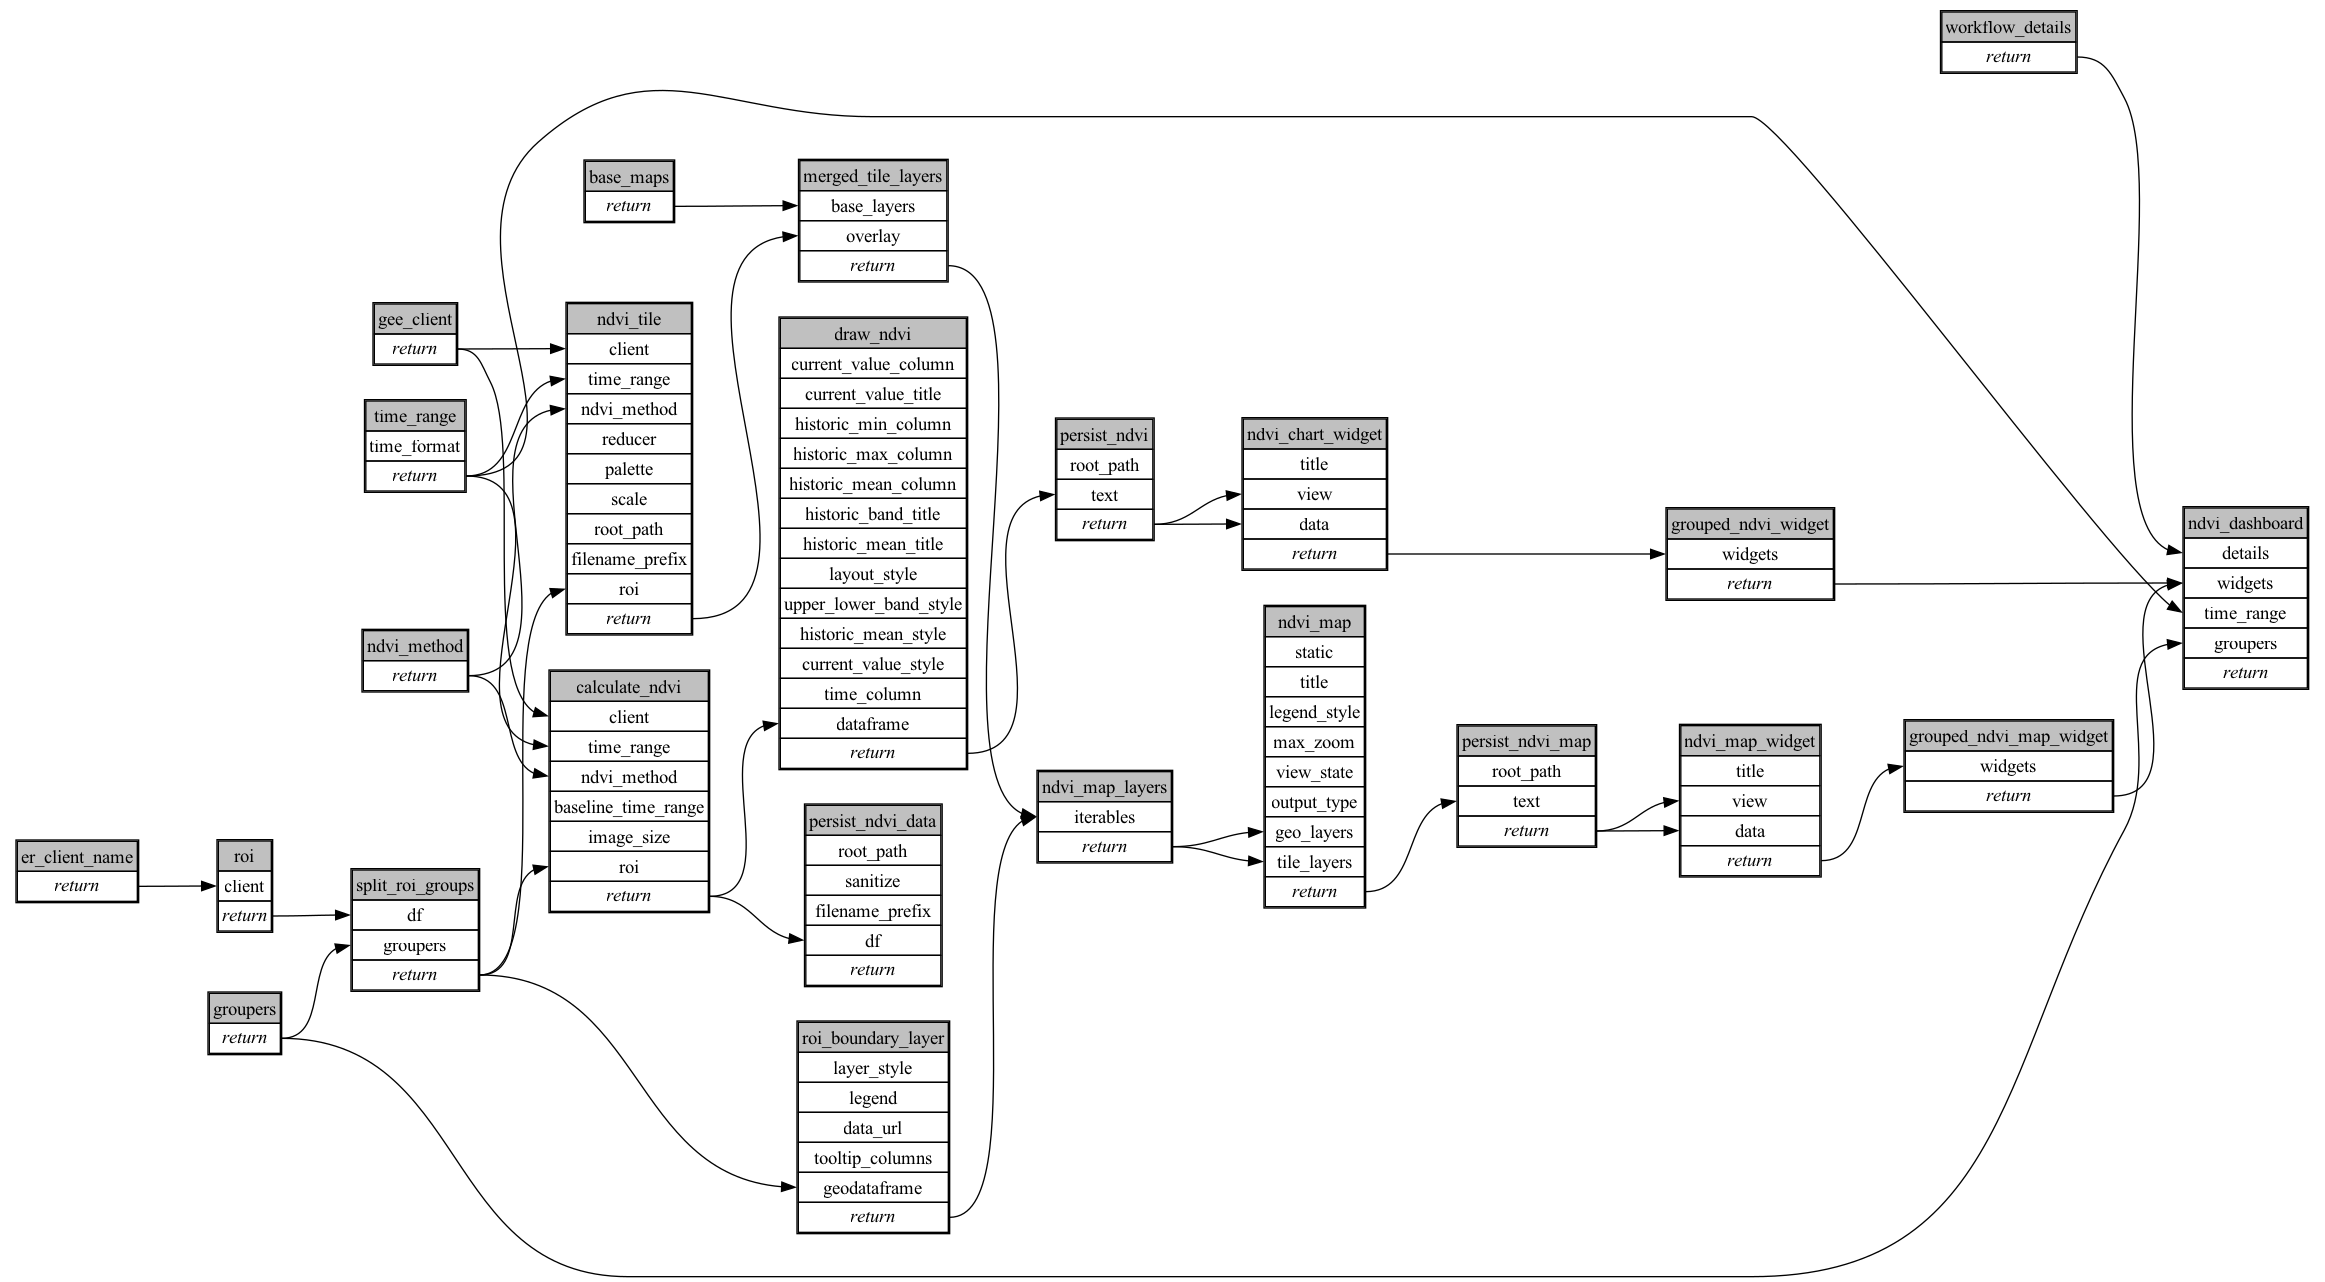
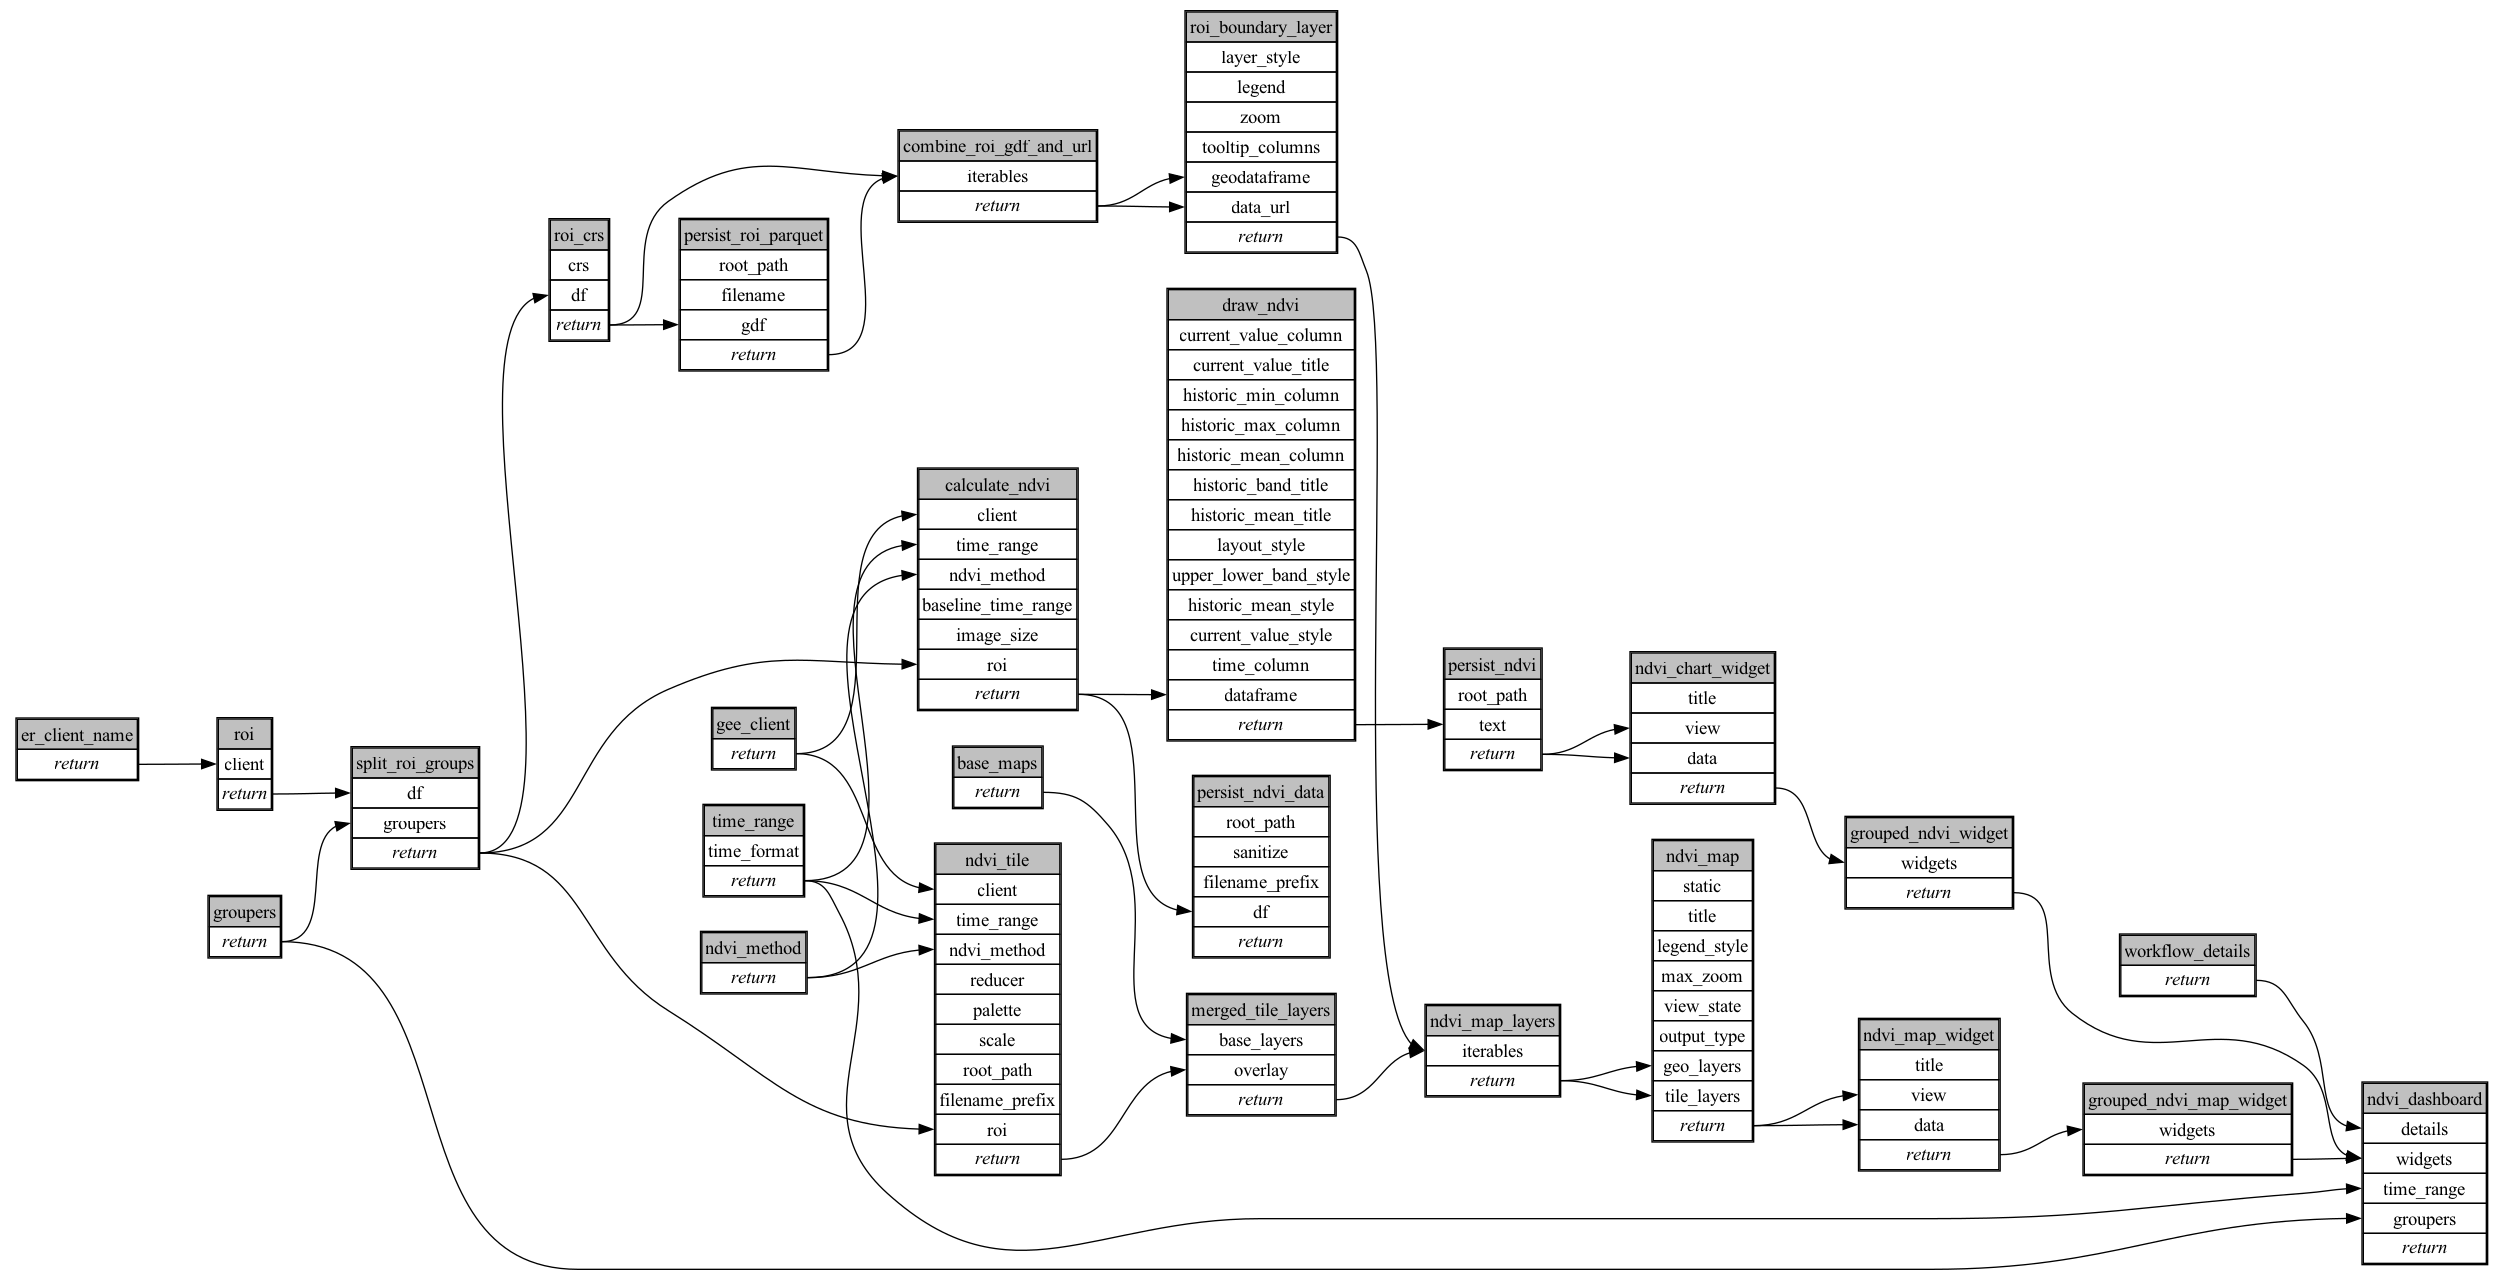
feat: render NDVI map as native map_v2 widget via geoarrow ROI layer
Replace the serialized pydeck HTML map (draw_map html -> persist_text ->
create_map_widget_single_view) with the deck.gl JSON path used by the
patrols ecoscope-web branch: draw_map output_type json feeds
create_map_v2_widget_single_view directly.

The ROI boundary now flows convert_crs (EPSG:4326) -> persist_geoarrow_for_pydeck
-> groupbykey -> create_geoarrow_polygon_layer, since the pydeck data_url
path does no reprojection and EarthRanger spatial features carry no CRS
guarantee. The NDVI raster stays a base64 BitmapLayer.

Bump ecoscope-platform to 2.20.x; no task signatures used here changed.

Claude-Session: https://claude.ai/code/session_01PzW4qvLc2PMQfGMhu3AKdA

diff --git a/ecoscope-workflows-ndvi-workflow/ecoscope_workflows_ndvi_workflow/dags/run_sequential.py b/ecoscope-workflows-ndvi-workflow/ecoscope_workflows_ndvi_workflow/dags/run_sequential.py
@@ -17,13 +17,10 @@ from ecoscope.platform.tasks.io import persist_text as persist_text
 from ecoscope.platform.tasks.io import set_er_connection as set_er_connection
 from ecoscope.platform.tasks.io import set_gee_connection as set_gee_connection
 from ecoscope.platform.tasks.results import (
-    create_map_widget_single_view as create_map_widget_single_view,
+    create_map_v2_widget_single_view as create_map_v2_widget_single_view,
 )
 from ecoscope.platform.tasks.results import (
     create_plot_widget_single_view as create_plot_widget_single_view,
-)
-from ecoscope.platform.tasks.results import (
-    create_polygon_layer_pydeck as create_polygon_layer_pydeck,
 )
 from ecoscope.platform.tasks.results import (
     draw_historic_timeseries as draw_historic_timeseries,
@@ -32,13 +29,23 @@ from ecoscope.platform.tasks.results import draw_map as draw_map
 from ecoscope.platform.tasks.results import gather_dashboard as gather_dashboard
 from ecoscope.platform.tasks.results import merge_tile_layers as merge_tile_layers
 from ecoscope.platform.tasks.results import merge_widget_views as merge_widget_views
+from ecoscope.platform.tasks.results import (
+    persist_geoarrow_for_pydeck as persist_geoarrow_for_pydeck,
+)
 from ecoscope.platform.tasks.results import set_base_maps as set_base_maps
+from ecoscope.platform.tasks.results._pydeck import (
+    create_geoarrow_polygon_layer as create_geoarrow_polygon_layer,
+)
 from ecoscope.platform.tasks.skip import all_geometry_are_none as all_geometry_are_none
 from ecoscope.platform.tasks.skip import (
     any_dependency_skipped as any_dependency_skipped,
 )
 from ecoscope.platform.tasks.skip import any_is_empty_df as any_is_empty_df
+from ecoscope.platform.tasks.skip import (
+    any_keyed_iterables_are_skips as any_keyed_iterables_are_skips,
+)
 from ecoscope.platform.tasks.skip import never as never
+from ecoscope.platform.tasks.transformation import convert_crs as convert_crs
 from ecoscope_workflows_ext_custom.tasks.io import create_ndvi_tile as create_ndvi_tile
 from wt_contracts import validate as _validate
 from wt_task import task
@@ -362,8 +369,66 @@ def main(params: dict[str, Any], validate_params_schema: bool = True):
         .call()
     )
 
+    roi_crs = (
+        task(convert_crs)
+        .validate()
+        .set_task_instance_id("roi_crs")
+        .handle_errors()
+        .with_tracing()
+        .skipif(
+            conditions=[
+                any_is_empty_df,
+                any_dependency_skipped,
+            ],
+            unpack_depth=1,
+        )
+        .partial(crs="EPSG:4326", **(params.get("roi_crs") or {}))
+        .mapvalues(argnames=["df"], argvalues=split_roi_groups)
+    )
+
+    persist_roi_parquet = (
+        task(persist_geoarrow_for_pydeck)
+        .validate()
+        .set_task_instance_id("persist_roi_parquet")
+        .handle_errors()
+        .with_tracing()
+        .skipif(
+            conditions=[
+                any_is_empty_df,
+                any_dependency_skipped,
+                all_geometry_are_none,
+            ],
+            unpack_depth=1,
+        )
+        .partial(
+            root_path=os.environ["ECOSCOPE_WORKFLOWS_RESULTS"],
+            filename=None,
+            **(params.get("persist_roi_parquet") or {}),
+        )
+        .mapvalues(argnames=["gdf"], argvalues=roi_crs)
+    )
+
+    combine_roi_gdf_and_url = (
+        task(groupbykey)
+        .validate()
+        .set_task_instance_id("combine_roi_gdf_and_url")
+        .handle_errors()
+        .with_tracing()
+        .skipif(
+            conditions=[
+                any_keyed_iterables_are_skips,
+            ],
+            unpack_depth=1,
+        )
+        .partial(
+            iterables=[roi_crs, persist_roi_parquet],
+            **(params.get("combine_roi_gdf_and_url") or {}),
+        )
+        .call()
+    )
+
     roi_boundary_layer = (
-        task(create_polygon_layer_pydeck)
+        task(create_geoarrow_polygon_layer)
         .validate()
         .set_task_instance_id("roi_boundary_layer")
         .handle_errors()
@@ -386,11 +451,13 @@ def main(params: dict[str, Any], validate_params_schema: bool = True):
                 "line_width_units": "pixels",
             },
             legend=None,
-            data_url=None,
+            zoom=False,
             tooltip_columns=None,
             **(params.get("roi_boundary_layer") or {}),
         )
-        .mapvalues(argnames=["geodataframe"], argvalues=split_roi_groups)
+        .mapvalues(
+            argnames=["geodataframe", "data_url"], argvalues=combine_roi_gdf_and_url
+        )
     )
 
     merged_tile_layers = (
@@ -449,34 +516,14 @@ def main(params: dict[str, Any], validate_params_schema: bool = True):
             legend_style=None,
             max_zoom=20,
             view_state=None,
-            output_type="html",
+            output_type="json",
             **(params.get("ndvi_map") or {}),
         )
         .mapvalues(argnames=["geo_layers", "tile_layers"], argvalues=ndvi_map_layers)
     )
 
-    persist_ndvi_map = (
-        task(persist_text)
-        .validate()
-        .set_task_instance_id("persist_ndvi_map")
-        .handle_errors()
-        .with_tracing()
-        .skipif(
-            conditions=[
-                any_is_empty_df,
-                any_dependency_skipped,
-            ],
-            unpack_depth=1,
-        )
-        .partial(
-            root_path=os.environ["ECOSCOPE_WORKFLOWS_RESULTS"],
-            **(params.get("persist_ndvi_map") or {}),
-        )
-        .mapvalues(argnames=["text"], argvalues=ndvi_map)
-    )
-
     ndvi_map_widget = (
-        task(create_map_widget_single_view)
+        task(create_map_v2_widget_single_view)
         .validate()
         .set_task_instance_id("ndvi_map_widget")
         .handle_errors()
@@ -488,7 +535,7 @@ def main(params: dict[str, Any], validate_params_schema: bool = True):
             unpack_depth=1,
         )
         .partial(title="NDVI Map", **(params.get("ndvi_map_widget") or {}))
-        .map(argnames=["view", "data"], argvalues=persist_ndvi_map)
+        .map(argnames=["view", "data"], argvalues=ndvi_map)
     )
 
     grouped_ndvi_map_widget = (

diff --git a/ecoscope-workflows-ndvi-workflow/ecoscope_workflows_ndvi_workflow/dags/run_sequential_mock_io.py b/ecoscope-workflows-ndvi-workflow/ecoscope_workflows_ndvi_workflow/dags/run_sequential_mock_io.py
@@ -53,16 +53,23 @@ create_ndvi_tile = create_func_magicmock(  # 🧪
 )  # 🧪
 from ecoscope.platform.tasks.groupby import groupbykey as groupbykey
 from ecoscope.platform.tasks.results import (
-    create_map_widget_single_view as create_map_widget_single_view,
-)
-from ecoscope.platform.tasks.results import (
-    create_polygon_layer_pydeck as create_polygon_layer_pydeck,
+    create_map_v2_widget_single_view as create_map_v2_widget_single_view,
 )
 from ecoscope.platform.tasks.results import draw_map as draw_map
 from ecoscope.platform.tasks.results import gather_dashboard as gather_dashboard
 from ecoscope.platform.tasks.results import merge_tile_layers as merge_tile_layers
+from ecoscope.platform.tasks.results import (
+    persist_geoarrow_for_pydeck as persist_geoarrow_for_pydeck,
+)
 from ecoscope.platform.tasks.results import set_base_maps as set_base_maps
+from ecoscope.platform.tasks.results._pydeck import (
+    create_geoarrow_polygon_layer as create_geoarrow_polygon_layer,
+)
 from ecoscope.platform.tasks.skip import all_geometry_are_none as all_geometry_are_none
+from ecoscope.platform.tasks.skip import (
+    any_keyed_iterables_are_skips as any_keyed_iterables_are_skips,
+)
+from ecoscope.platform.tasks.transformation import convert_crs as convert_crs
 
 
 def main(params: dict[str, Any], validate_params_schema: bool = True):
@@ -383,8 +390,66 @@ def main(params: dict[str, Any], validate_params_schema: bool = True):
         .call()
     )
 
+    roi_crs = (
+        task(convert_crs)
+        .validate()
+        .set_task_instance_id("roi_crs")
+        .handle_errors()
+        .with_tracing()
+        .skipif(
+            conditions=[
+                any_is_empty_df,
+                any_dependency_skipped,
+            ],
+            unpack_depth=1,
+        )
+        .partial(crs="EPSG:4326", **(params.get("roi_crs") or {}))
+        .mapvalues(argnames=["df"], argvalues=split_roi_groups)
+    )
+
+    persist_roi_parquet = (
+        task(persist_geoarrow_for_pydeck)
+        .validate()
+        .set_task_instance_id("persist_roi_parquet")
+        .handle_errors()
+        .with_tracing()
+        .skipif(
+            conditions=[
+                any_is_empty_df,
+                any_dependency_skipped,
+                all_geometry_are_none,
+            ],
+            unpack_depth=1,
+        )
+        .partial(
+            root_path=os.environ["ECOSCOPE_WORKFLOWS_RESULTS"],
+            filename=None,
+            **(params.get("persist_roi_parquet") or {}),
+        )
+        .mapvalues(argnames=["gdf"], argvalues=roi_crs)
+    )
+
+    combine_roi_gdf_and_url = (
+        task(groupbykey)
+        .validate()
+        .set_task_instance_id("combine_roi_gdf_and_url")
+        .handle_errors()
+        .with_tracing()
+        .skipif(
+            conditions=[
+                any_keyed_iterables_are_skips,
+            ],
+            unpack_depth=1,
+        )
+        .partial(
+            iterables=[roi_crs, persist_roi_parquet],
+            **(params.get("combine_roi_gdf_and_url") or {}),
+        )
+        .call()
+    )
+
     roi_boundary_layer = (
-        task(create_polygon_layer_pydeck)
+        task(create_geoarrow_polygon_layer)
         .validate()
         .set_task_instance_id("roi_boundary_layer")
         .handle_errors()
@@ -407,11 +472,13 @@ def main(params: dict[str, Any], validate_params_schema: bool = True):
                 "line_width_units": "pixels",
             },
             legend=None,
-            data_url=None,
+            zoom=False,
             tooltip_columns=None,
             **(params.get("roi_boundary_layer") or {}),
         )
-        .mapvalues(argnames=["geodataframe"], argvalues=split_roi_groups)
+        .mapvalues(
+            argnames=["geodataframe", "data_url"], argvalues=combine_roi_gdf_and_url
+        )
     )
 
     merged_tile_layers = (
@@ -470,34 +537,14 @@ def main(params: dict[str, Any], validate_params_schema: bool = True):
             legend_style=None,
             max_zoom=20,
             view_state=None,
-            output_type="html",
+            output_type="json",
             **(params.get("ndvi_map") or {}),
         )
         .mapvalues(argnames=["geo_layers", "tile_layers"], argvalues=ndvi_map_layers)
     )
 
-    persist_ndvi_map = (
-        task(persist_text)
-        .validate()
-        .set_task_instance_id("persist_ndvi_map")
-        .handle_errors()
-        .with_tracing()
-        .skipif(
-            conditions=[
-                any_is_empty_df,
-                any_dependency_skipped,
-            ],
-            unpack_depth=1,
-        )
-        .partial(
-            root_path=os.environ["ECOSCOPE_WORKFLOWS_RESULTS"],
-            **(params.get("persist_ndvi_map") or {}),
-        )
-        .mapvalues(argnames=["text"], argvalues=ndvi_map)
-    )
-
     ndvi_map_widget = (
-        task(create_map_widget_single_view)
+        task(create_map_v2_widget_single_view)
         .validate()
         .set_task_instance_id("ndvi_map_widget")
         .handle_errors()
@@ -509,7 +556,7 @@ def main(params: dict[str, Any], validate_params_schema: bool = True):
             unpack_depth=1,
         )
         .partial(title="NDVI Map", **(params.get("ndvi_map_widget") or {}))
-        .map(argnames=["view", "data"], argvalues=persist_ndvi_map)
+        .map(argnames=["view", "data"], argvalues=ndvi_map)
     )
 
     grouped_ndvi_map_widget = (

diff --git a/ecoscope-workflows-ndvi-workflow/README.md b/ecoscope-workflows-ndvi-workflow/README.md
@@ -5,12 +5,12 @@
 
 ```yaml
 # fingerprint:
-artifacts_sha256_basic: 5244cb1e73986510a9452c5c7a50d0ca731cf1d90ebe5d125c8c70a6e569c287
-artifacts_sha256_strict: fefbc39d626152611788fb167dffbecaf48ae27fc91a57d60efc6a5c9f0c50ed
+artifacts_sha256_basic: eb83048c2569c47f662b549871e31efc13ac926fba4308dd9916ab89b4127af4
+artifacts_sha256_strict: ef79a4f024637214a5c49ee532ebba4f50b024adbe0ff8e7a3ec23653ed19d5d
 installed_requirements:
 - channel: https://repo.prefix.dev/ecoscope-workflows/
   name: ecoscope-platform
-  version: {version: ==2.19.0}
+  version: {version: ==2.20.0}
 - channel: conda-forge
   name: pydeck
   version: {version: ==0.9.2}
@@ -18,7 +18,7 @@ installed_requirements:
   name: ecoscope-workflows-ext-custom
   version: {version: ==0.1.0}
 params_sha256: da68699973ec82684d366cfa2270a76f0cf09152fe7b124f1b6aa36e4ca180ff
-spec_sha256: 3727b3cad0db559dd023ae4b363bbda6c3c4b733f83f9534d6c915e19cd90c15
+spec_sha256: 30d419689f3115cfe1b8e0cd7f98e930052ce697fa4280502e685761c51d03e0
 
 ```
 
